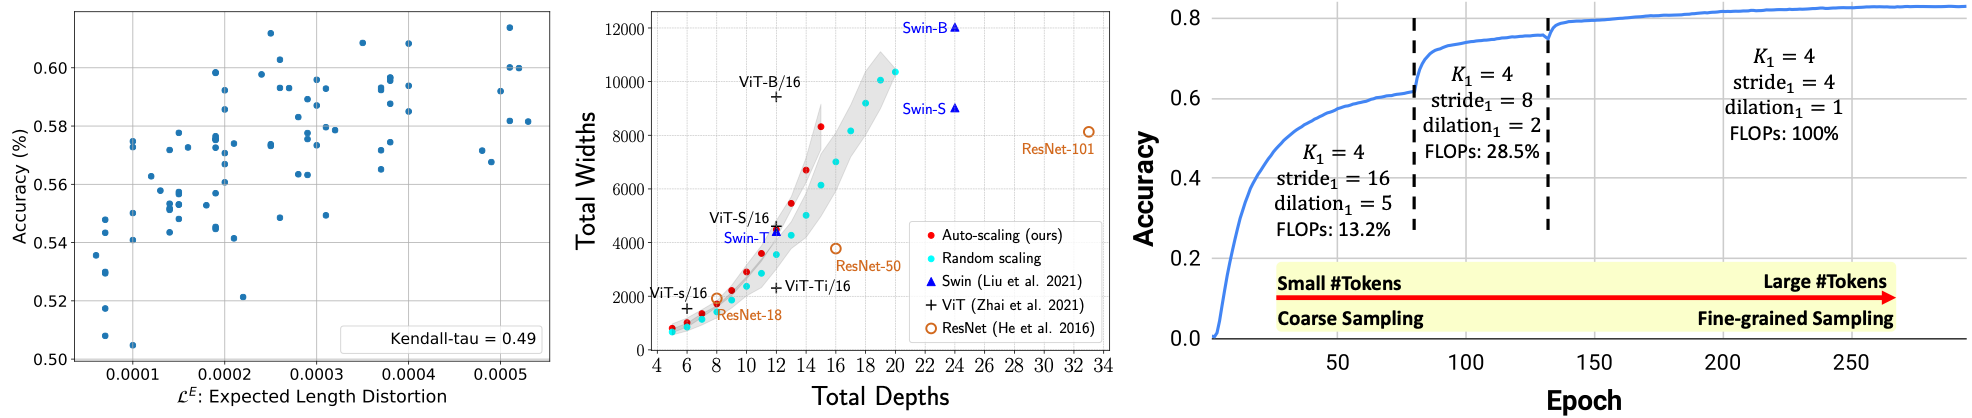
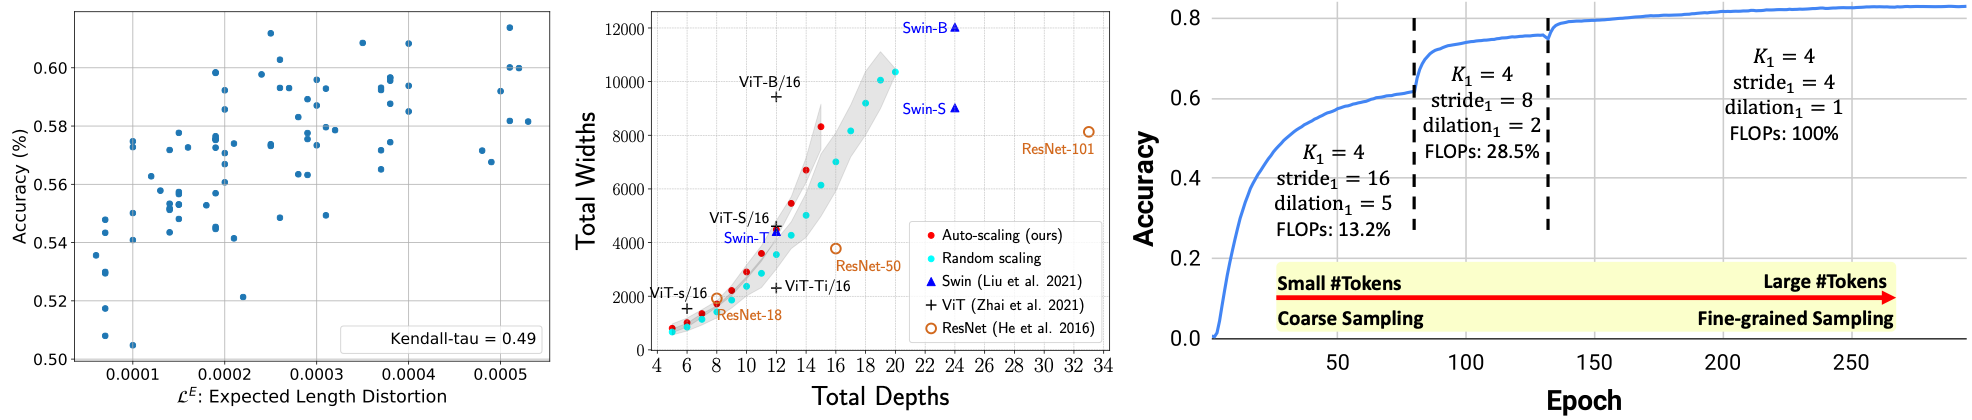
add images

diff --git a/README.md b/README.md
@@ -22,7 +22,7 @@ Highlights:
 * **Efficient ViT Training via Progressive Tokenization**: we observe that ViTs can tolerate coarse tokenization in early training stages,  and further propose to train ViTs faster and cheaper with a progressive tokenization strategy.
 
 <p align="center">
-  <img src="images/github_teaser.png" alt="teaser" width="600"/></br>
+  <img src="images/github_teaser.png" alt="teaser" width="1000"/></br>
   <span align="center"><b>Left</b>: Length Distortion shows a strong correlation with ViT's accuracy. <b>Middle</b>: Auto scaling rule of As-ViT. <b>Right</b>: Progressive re-tokenization for efficient ViT training.</span>
 </p>
 
